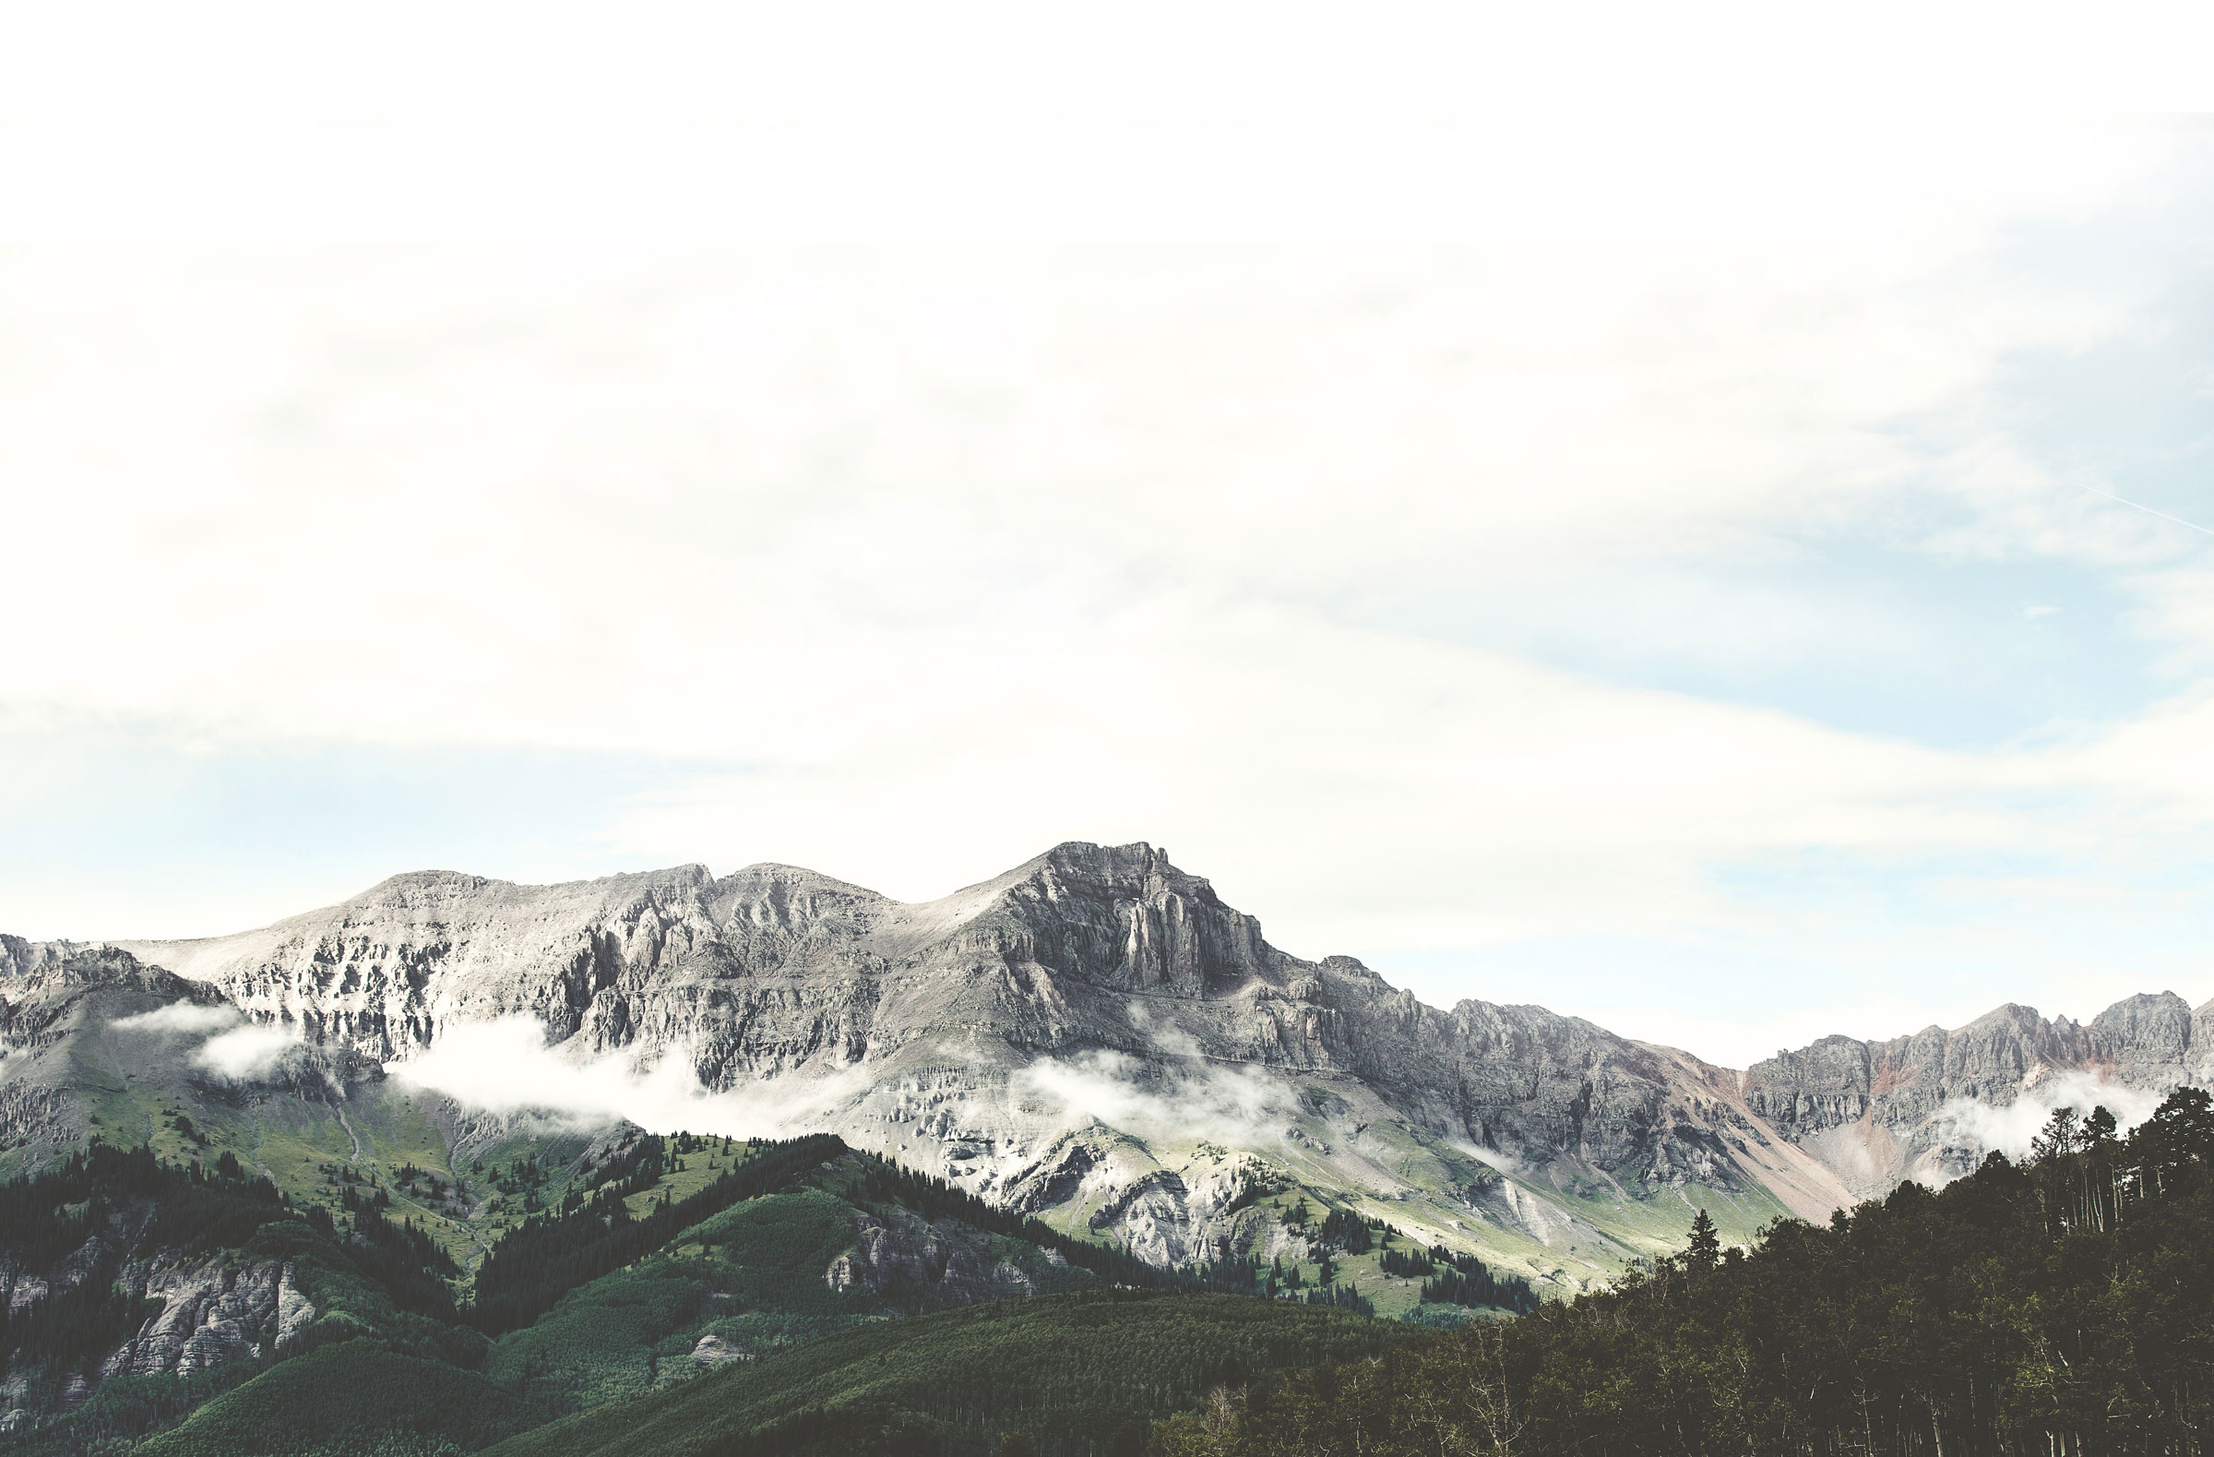
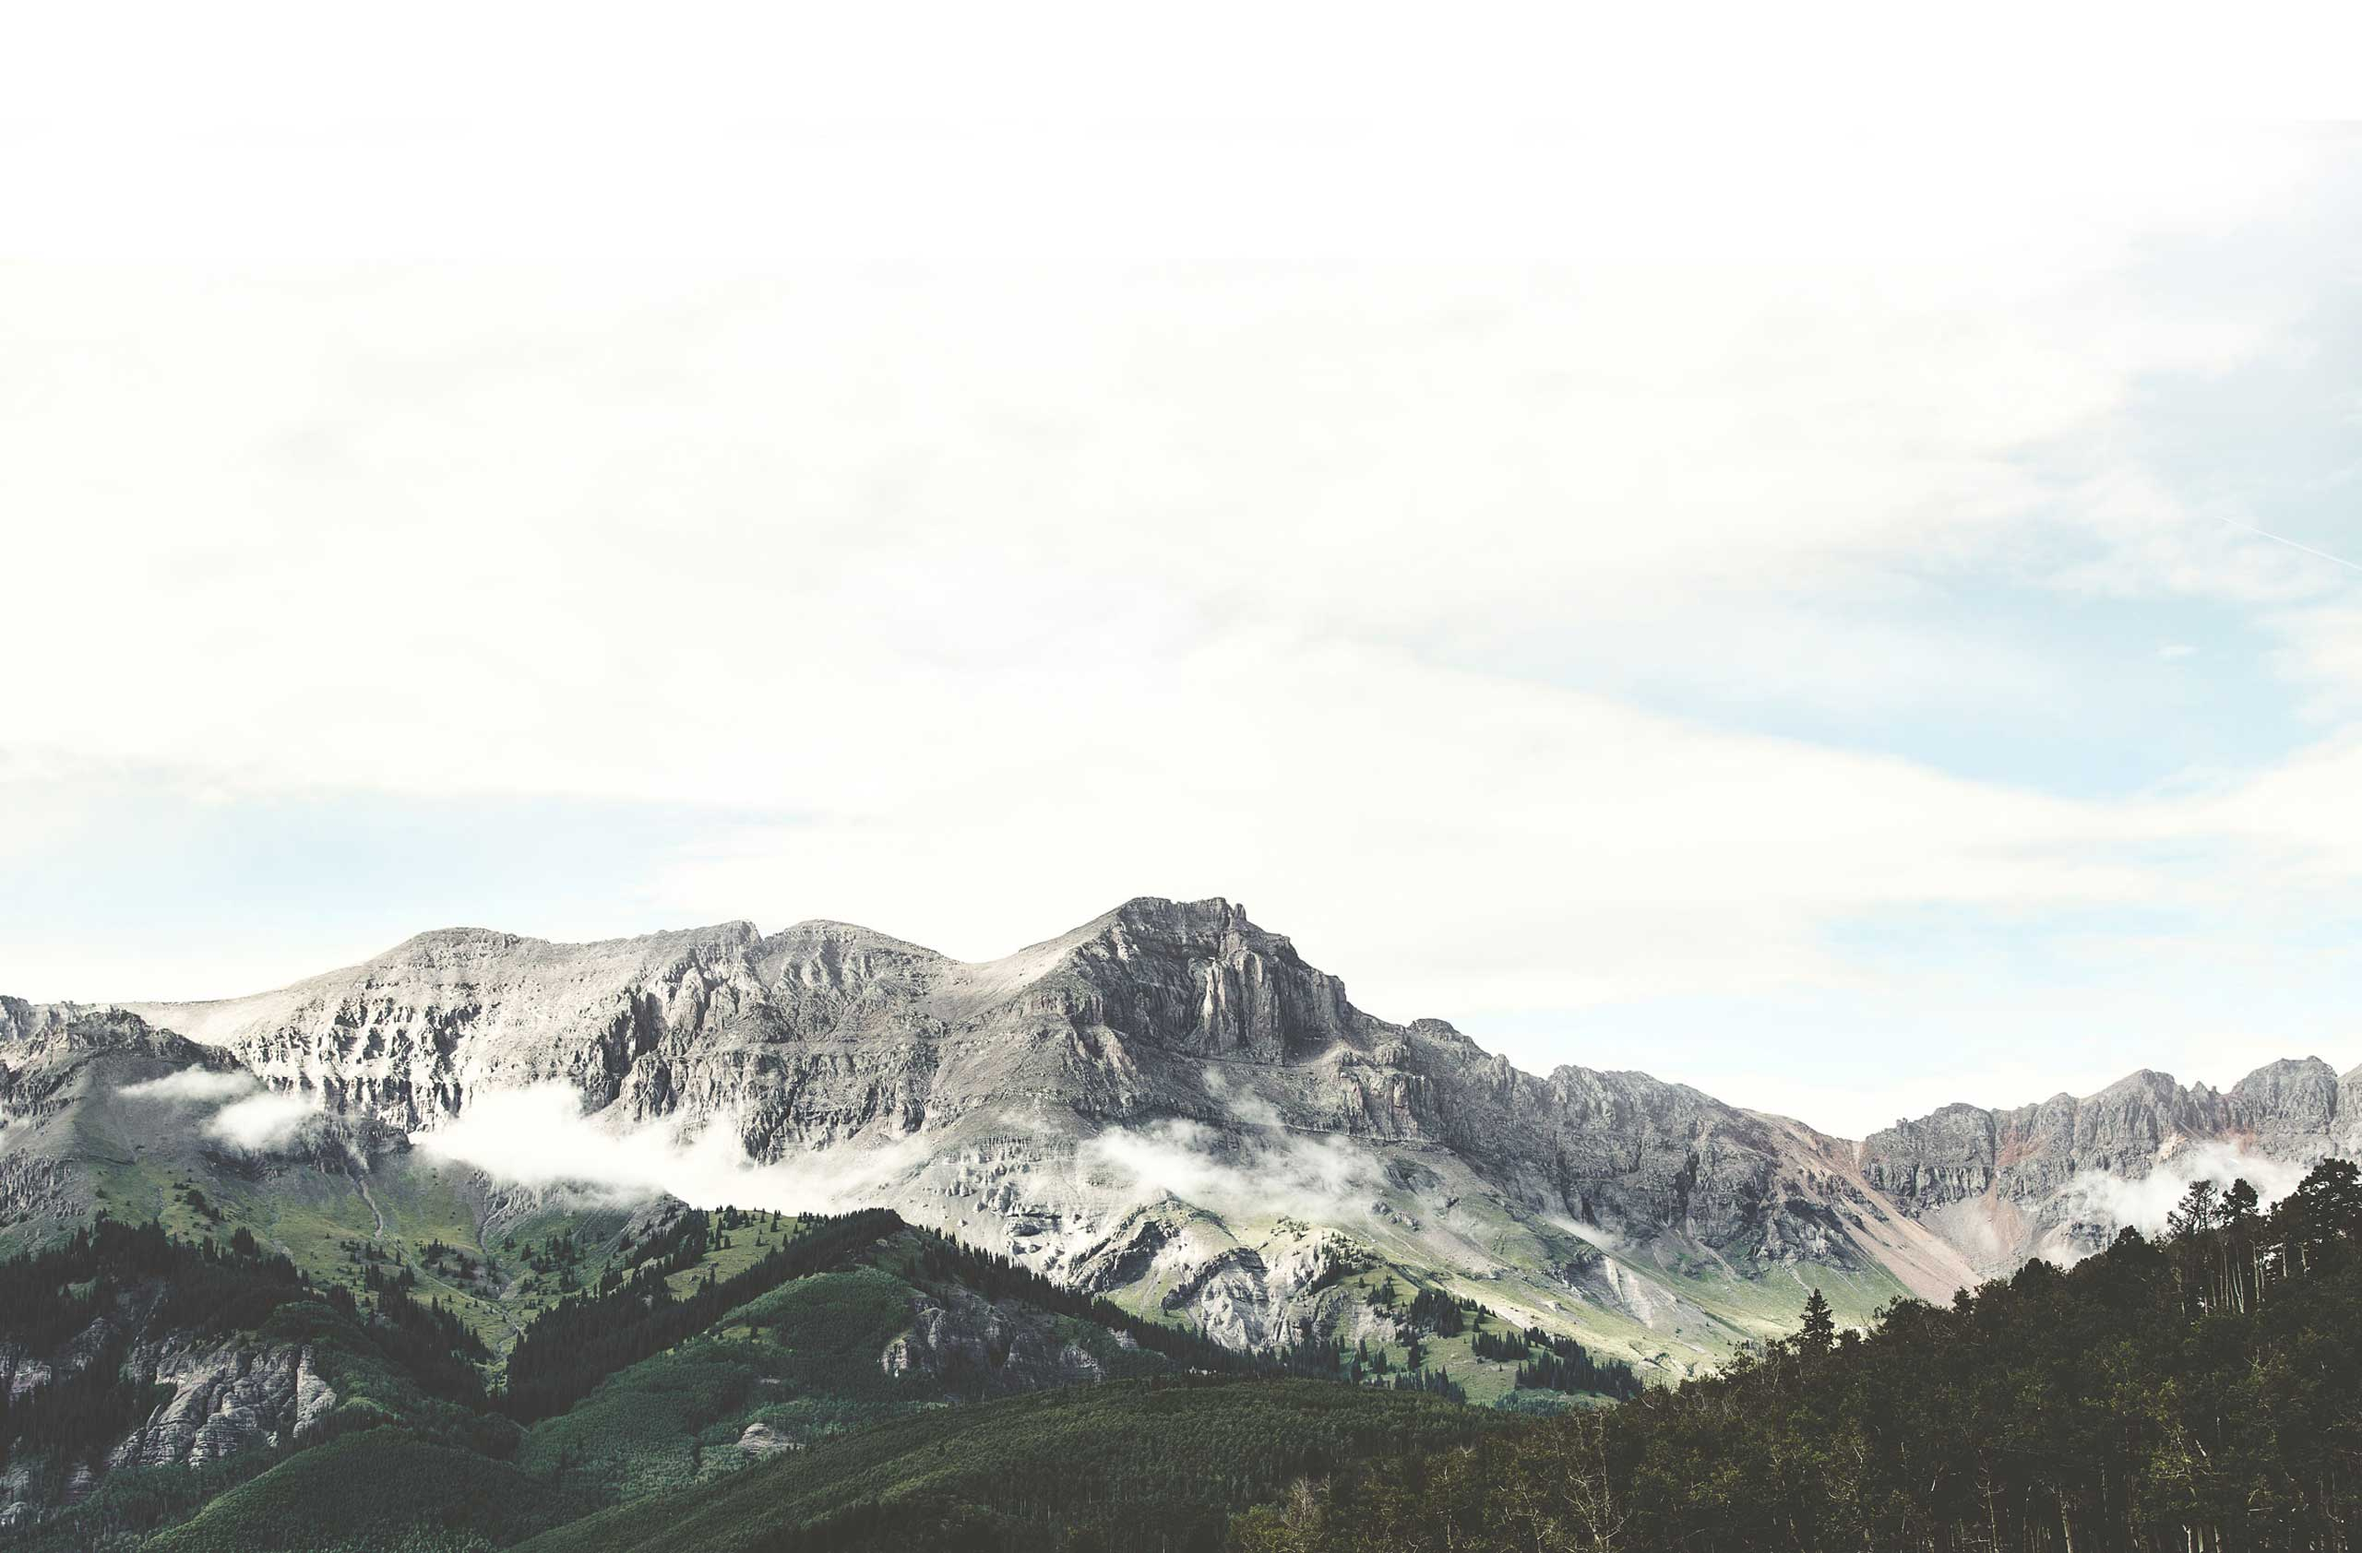
added media query for >2560 screens

diff --git a/scss/main.scss b/scss/main.scss
@@ -288,6 +288,11 @@ footer .seal img {
 /* ------------------------------
 Device-specific
 --------------------------------*/
+@media (width > 2560px) {
+  #homepage, #about-us, #our-work, #partner {
+    background-size: cover;
+  }
+}
 @media (max-width: 800px) {
   .usa-disclaimer, .usa-site-header .usa-disclaimer-stage {
     float: none;
